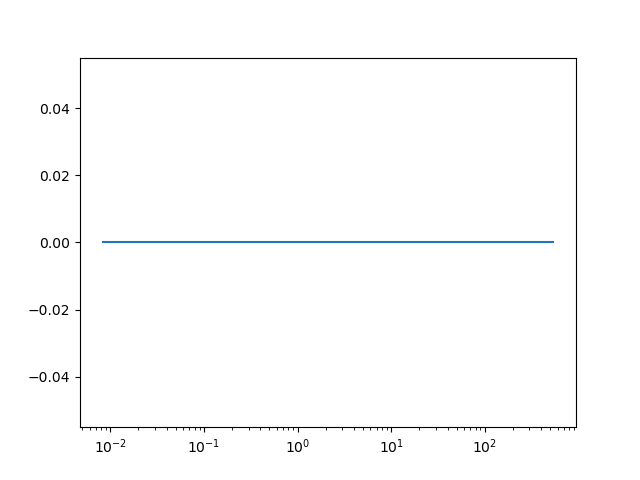
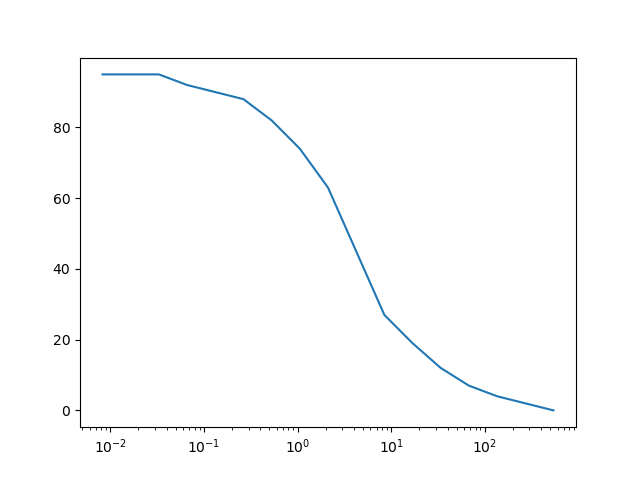
A5 in progress, a bug fix in A4

diff --git a/HW2/hwcode/crime_data_lasso.py b/HW2/hwcode/crime_data_lasso.py
@@ -19,40 +19,68 @@ def PrepareData():
         print("Labels set summary")
         print(df["ViolentCrimesPerPop"])
         print("features are already standardized. ")
-        return X, y
-
-    Xtrain, Ytrain = ReadAndGet("crime-train.txt")
-    Xtest, Ytest = ReadAndGet("crime-test.txt")
-    return Xtrain, Xtest, Ytrain, Ytest
+        return X, y, df
+    Xtrain, Ytrain, TrainDf = ReadAndGet("crime-train.txt")
+    Xtest, Ytest, TestDf = ReadAndGet("crime-test.txt")
+    return Xtrain, Xtest, Ytrain, Ytest, TrainDf, TestDf
 
 
 def A5PlotsAndShow():
     print("summary on the data: ")
-    Xtrain, Xtest, Ytrain, Ytest = PrepareData()
-    LambdaMax = LassoLambdaMax(Xtrain, Ytrain)
-    Lambda = LambdaMax                  # Results
-    Lambdas = []                        # Results
-    Ws = []                             # Predictors list
-    Model = None                        # The model
-    FlagPre, FlagCur = False, False     # whether lambda is < 0.01
-    while (FlagPre) or (not FlagCur):   # not the case that Preivious is > 0.01, current is < 0.01
-        print(f"Using Lambda: {Lambda}")
-        FlagPre = FlagCur
-        FlagCur = Lambda < 0.01  # Last one!
-        if Model is None:
-            Model = LassoRegression(regularization_lambda=Lambda)
-        else:
-            Model.Lambda = Lambda
+    Xtrain, Xtest, Ytrain, Ytest, TrainDf, TestDf = PrepareData()
+    def A5c():
+        print(f"{'='*10} Running A5(c), lambda non zeros count {'='*10}")
+        LambdaMax = LassoLambdaMax(Xtrain, Ytrain)
+        Lambda = LambdaMax                  # Results
+        Lambdas = []                        # Results
+        Ws = []                             # Predictors list
+        Model = None                        # The model
+        FlagPre, FlagCur = False, False     # whether lambda is < 0.01
+        while (FlagPre) or (not FlagCur):   # not the case that Preivious is > 0.01, current is < 0.01
+            print(f"Using Lambda: {Lambda}")
+            FlagPre = FlagCur
+            FlagCur = Lambda < 0.01         # Last one!
+            if Model is None:
+                Model = LassoRegression(regularization_lambda=Lambda)
+            else:
+                Model.Lambda = Lambda
+            Model.fit(Xtrain, Ytrain)
+            Ws.append(Model.w)
+            Lambdas.append(Lambda)
+            Lambda /= 2
+        NoneZerosCount = [sum(_ != 0) for _ in Ws]
+        plt.plot(Lambdas, NoneZerosCount)
+        plt.xscale("log")
+        plt.title("Crime Data non-zeros lasso")
+        plt.xlabel("$\\lambda$")
+        plt.ylabel("# of Non zeros in $\hat{w}$")
+        plt.savefig("A5a-plot.png")
+        plt.show()
+        return Ws, Lambdas
+    Ws, Lambdas = A5c()
 
-        Model.fit(Xtrain, Ytrain)
-        Ws.append(Model.w)
-        Lambdas.append(Lambda)
-        Lambda /= 2
-    NoneZerosCount = [sum(_ != 0) for _ in Ws]
-    plt.plot(Lambdas, NoneZerosCount)
-    plt.xscale("log")
-    plt.savefig("A5a-plot.png")
-    plt.show()
+    def A5d():
+        # Features to pick up: agePct12t29,pctWSocSec,pctUrban,agePct65up
+        Features = ["agePct12t29","pctWSocSec","pctUrban","agePct65up"]
+        FeaturesIndices = []
+        for II, Feature in enumerate(TrainDf.columns):
+            if Feature in Features: FeaturesIndices.append(II)
+        FeaturesLassoPath = np.array([w[FeaturesIndices, ...] for w in Ws])
+        for II, Feature in enumerate(TrainDf.columns):
+            plt.plot(Lambdas, FeaturesLassoPath[:, II])
+        plt.legend(Features)
+        plt.xlabel("$\\lambda$")
+        plt.ylabel("$value of $\\hat{w_j}$")
+        plt.title("Lasso Regulrization Path")
+        plt.savefig("A5d-plot.png")
+        plt.show()
+    A5d()
+
+    def A5e():
+        pass
+    A5d()
+
+
 
 def main():
     A5PlotsAndShow()

diff --git a/HW2/hwcode/lasso.py b/HW2/hwcode/lasso.py
@@ -32,7 +32,7 @@ saveas = plt.savefig
 
 class LassoRegression:
 
-    def __init__(this, regularization_lambda, delta=1e-6, verbose=False):
+    def __init__(this, regularization_lambda, delta=1e-4, verbose=False):
         """
             create an instance of Lasso fit
         :param regularization_lambda:
@@ -96,6 +96,12 @@ class LassoRegression:
         this._b = b
         return this
 
+    def predict(this, X):
+        if this.w is None:
+            raise Exception("Can't predict on a lasso that is not trained yet")
+        d = this.w.shape[0]
+        assert d == X.shape[1], "The number of features used to predict doesn't match with what is trained on "
+        return X@this.w + this.b
 
     @property
     def w(this):   # get the weights of the model.
@@ -160,7 +166,7 @@ def A4a_b():
         Lambda /= r
     plot([_[0] for _ in Lfc], [_[1] for _ in Lfc], "ko")
     xscale("log")
-    xlabel(f"$\log{{\lambda}}$, reduction ratio: {r}")
+    xlabel(f"$\lambda$, reduction ratio: {r}")
     ylabel("Non Zeroes $w_j$")
     title("A4: Nonezeros $W_j$ vs Lambda for Lasso")
     plt.savefig("A4a-plot.png")

diff --git a/HW2/hw2Atex/hw2A.tex b/HW2/hw2Atex/hw2A.tex
@@ -435,6 +435,13 @@ if __name__ == "__main__":
 -- PctLess9thGrade: percentage of people 25 and over with less than a 9th grade education (numeric - decimal)
             \end{lstlisting} 
         \end{enumerate}
+    \subsection*{A.5.c}
+        
+    \subsection*{A.5.d}
+    \subsection*{A.5.e}
+    \subsection*{A.5.f}
+    \subsection*{A.5.g}
+    
     
         
 \section*{A.6}
